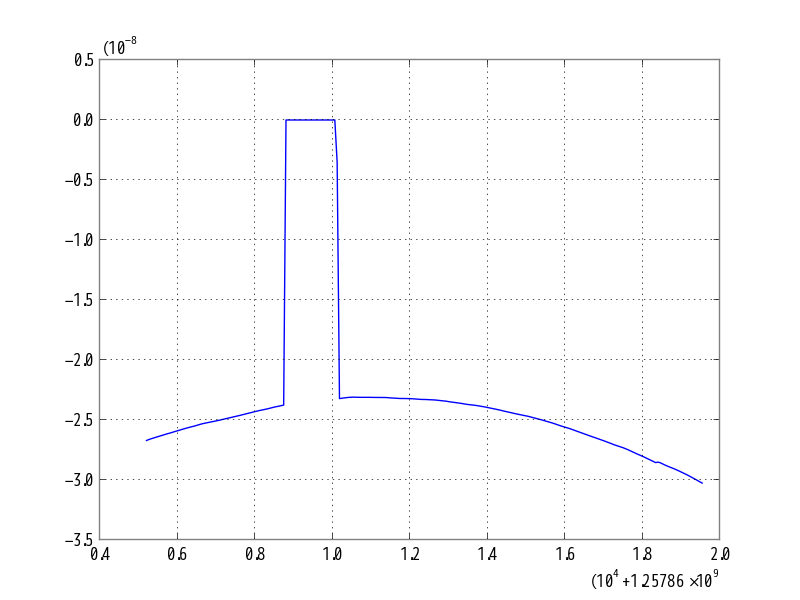
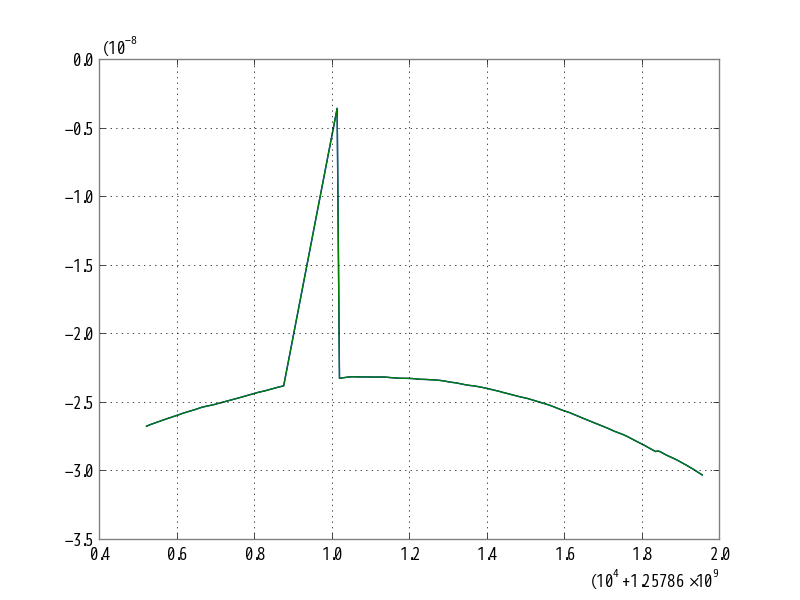
Add

diff --git a/ugm/strainmeter/main.py b/ugm/strainmeter/main.py
@@ -11,7 +11,8 @@ import Kozapy.utils.filelist as existedfilelist
 
 
 def nan_helper(y):
-    return np.isnan(y), lambda z: z.nonzero()[0]
+    #return np.isnan(y), lambda z: z.nonzero()[0]
+    return y==0.0, lambda z: z.nonzero()[0]
 
 start = tconvert('Nov 13 2019 00:00:00 JST')
 start = tconvert('Nov 16 2019 00:00:00 JST')
@@ -25,9 +26,12 @@ data = TimeSeriesDict.read(fnamelist,chname,nproc=8,pad=np.nan)
 #data = data.resample(32)
 #data = data.crop(start,end)
 gif = data['K1:GIF-X_STRAIN_OUT_DQ.mean']
-_x,y = gif.times,gif.value
-nans, x= nan_helper(y)
+_x,_y = gif.times,gif.value
+nans, x = nan_helper(_y)
+print(True in nans)
+y = _y
 y[nans] = np.interp(x(nans), x(~nans), y[~nans])
+plt.plot(_x,_y)
 plt.plot(_x,y)
 plt.savefig('hoge.png')
 plt.close()
